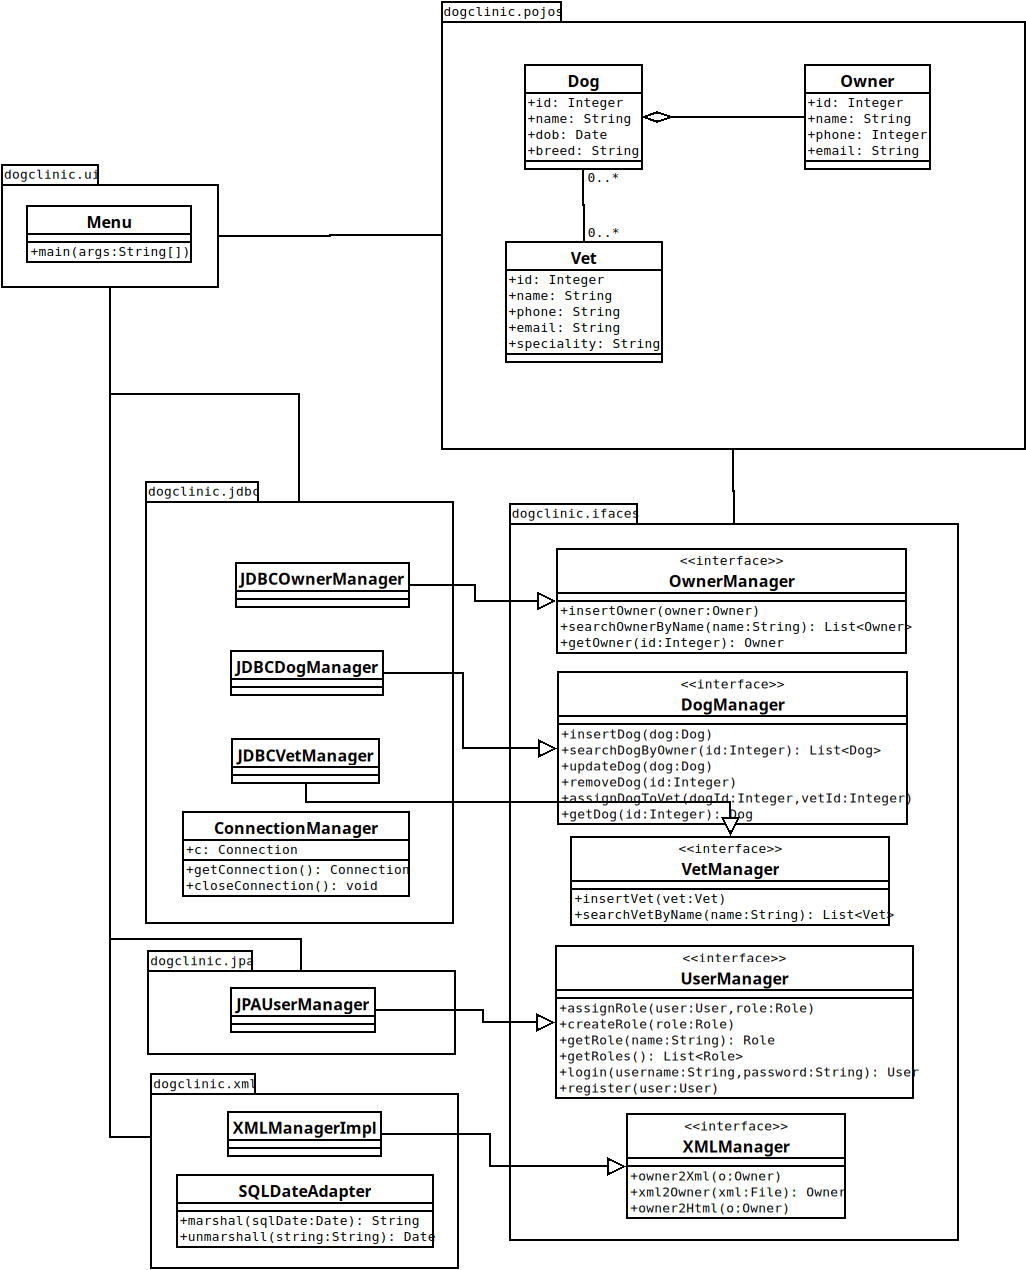
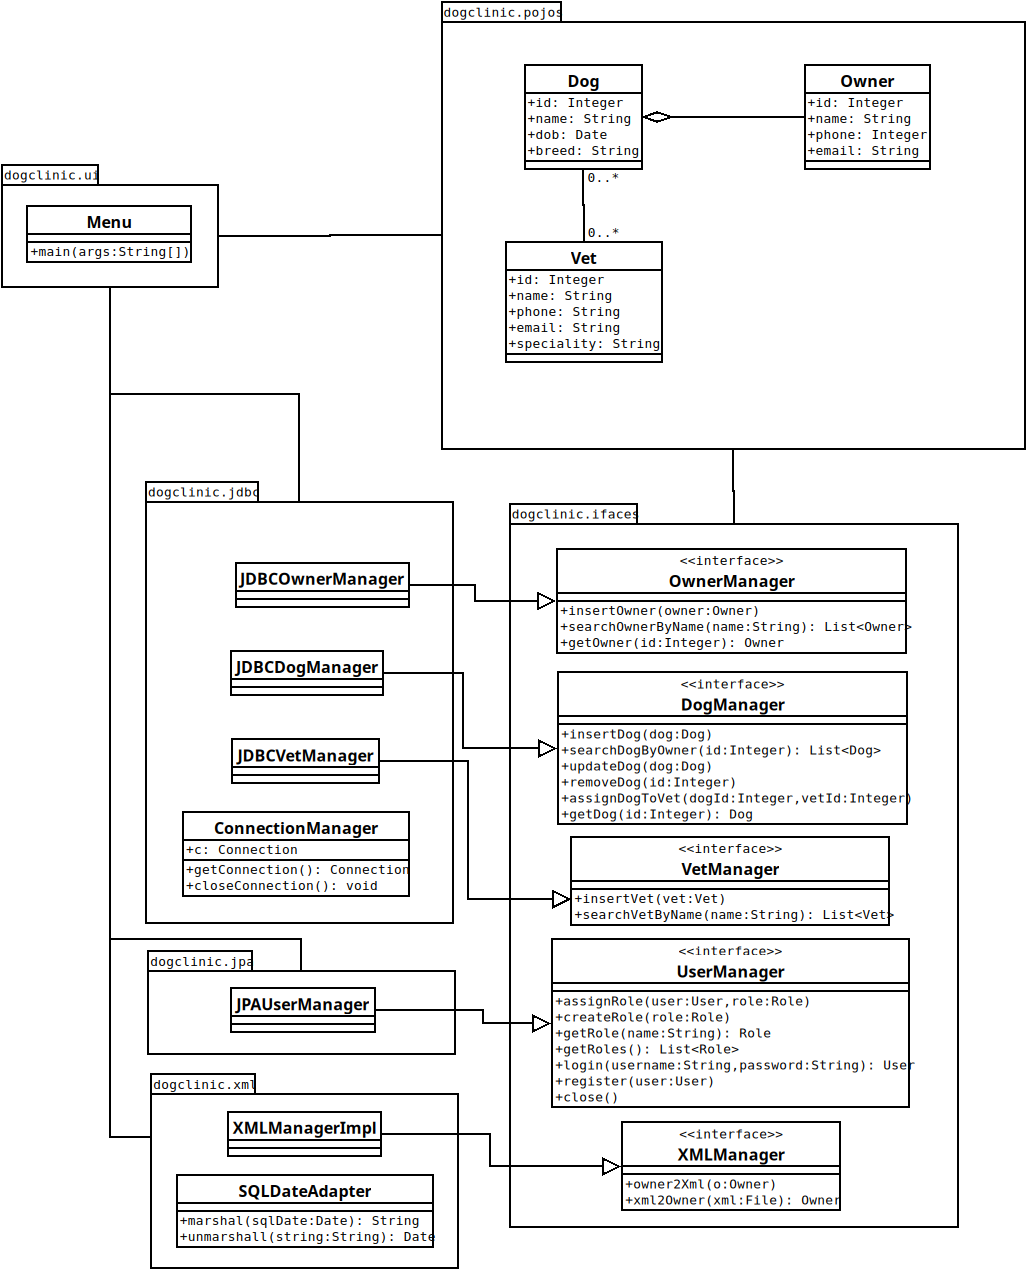
Several small fixes and updates.

diff --git a/DogClinic/src/dogclinic/ui/Menu.java b/DogClinic/src/dogclinic/ui/Menu.java
@@ -57,12 +57,13 @@ public class Menu {
 				}
 				case 0: {
 					conMan.closeConnection();
+					userMan.close();
 					return;
 				}
 				}
 
 			} catch (NumberFormatException e) {
-				System.out.println("You didn't type a number, idiot!");
+				System.out.println("You didn't type a number!");
 				e.printStackTrace();
 			} catch (IOException e) {
 				System.out.println("I/O Exception.");
@@ -70,30 +71,6 @@ public class Menu {
 			}
 		}
 
-	}
-
-	public static void login() throws IOException {
-		while (true) {
-			// Ask for the username and password
-			System.out.println("Username:");
-			String username = r.readLine();
-			System.out.println("Password:");
-			String password = r.readLine();
-			// If they match, go to the owner screen
-			User user = userMan.login(username, password);
-			if (user != null) {
-				if (user.getRole().getName().equals("owner")) {
-					ownerMenu(user.getEmail());
-				}
-				else if (user.getRole().getName().equals("vet")) {
-					selectVet();
-				}
-			}
-			// It not, ask again
-			else {
-				System.out.println("Wrong username/password combination.");
-			}
-		}
 	}
 
 	public static void registerOwner() throws IOException {
@@ -116,21 +93,6 @@ public class Menu {
 		userMan.assignRole(u, r);
 	}
 
-//	public static void selectOwner() throws IOException {
-//		System.out.println("Let's search by name:");
-//		String name = r.readLine();
-//		List<Owner> listOwn = ownerMan.searchOwnerByName(name);
-//		System.out.println(listOwn);
-//		System.out.println("Please choose an owner, type its Id:");
-//		Integer id = Integer.parseInt(r.readLine());
-//		// Go to the owner's menu
-//		ownerMenu(id);
-//	}
-	
-	public static void selectVet() throws IOException {
-		// TODO Make this later
-	}
-
 	public static void registerVet() throws IOException {
 		System.out.println("Please, input the vet's data:");
 		System.out.println("Name:");
@@ -143,6 +105,31 @@ public class Menu {
 		String speciality = r.readLine();
 		Vet v = new Vet(name, phone, email, speciality);
 		vetMan.insertVet(v);
+	}
+	
+
+	public static void login() throws IOException {
+		while (true) {
+			// Ask for the username and password
+			System.out.println("Username:");
+			String username = r.readLine();
+			System.out.println("Password:");
+			String password = r.readLine();
+			// If they match, go to the owner screen
+			User user = userMan.login(username, password);
+			if (user != null) {
+				if (user.getRole().getName().equals("owner")) {
+					ownerMenu(user.getEmail());
+				}
+				else if (user.getRole().getName().equals("vet")) {
+					vetMenu(user.getEmail());
+				}
+			}
+			// It not, ask again
+			else {
+				System.out.println("Wrong username/password combination.");
+			}
+		}
 	}
 
 	public static void ownerMenu(String email) {
@@ -178,7 +165,7 @@ public class Menu {
 				}
 
 			} catch (NumberFormatException e) {
-				System.out.println("You didn't type a number, idiot!");
+				System.out.println("You didn't type a number!");
 				e.printStackTrace();
 			} catch (IOException e) {
 				System.out.println("I/O Exception.");
@@ -203,6 +190,7 @@ public class Menu {
 		Owner o = ownerMan.getOwner(id);
 		Dog d = new Dog(name, dobDate, breed, o);
 		dogMan.insertDog(d);
+		System.out.println("The dog has been saved to the database.");
 	}
 
 	public static void checkDogs(int id) throws IOException {
@@ -211,17 +199,16 @@ public class Menu {
 		System.out.println(listDog);
 		System.out.println("Please choose a dog, type its Id:");
 		Integer dogId = Integer.parseInt(r.readLine());
-		// Go to the owner's menu
+		// Go to the dog's menu
 		dogMenu(dogId);
 	}
 	
 	public static void dogs2Xml(int id) throws IOException {
-		System.out.println("Your dogs in XML are:");
 		List<Dog> listDog = dogMan.searchDogByOwner(id);
 		Owner own = ownerMan.getOwner(id);
 		own.setDogs(listDog);
-		// TODO Turn the owner into an XML
 		xmlMan.owner2Xml(own);
+		System.out.println("Your dogs are in ./xmls/Dogs.xml");
 	}
 
 	public static void dogMenu(int id) {
@@ -271,8 +258,8 @@ public class Menu {
 		System.out.println(listVet);
 		System.out.println("Please choose a vet, type its Id:");
 		Integer vetId = Integer.parseInt(r.readLine());
-		// Go to the owner's menu
 		dogMan.assignDogToVet(dogId, vetId);
+		System.out.println("The dog has been assigned to the vet.");
 	}
 
 	public static void updateDog(int id) throws IOException {
@@ -296,11 +283,17 @@ public class Menu {
 			d.setBreed(breed);
 		}
 		dogMan.updateDog(d);
+		System.out.println("The changes to the dog have been saved.");
 	}
 
 	public static void removeDog(int id) throws IOException {
 		dogMan.removeDog(id);
 		System.out.println("The dog has been removed. :(");
 	}
+
+	public static void vetMenu(String email) throws IOException {
+		// TODO Complete vet's menu
+	}
+
 
 }

diff --git a/DogClinic/src/dogclinic/pojos/Dog.java b/DogClinic/src/dogclinic/pojos/Dog.java
@@ -17,9 +17,6 @@ import javax.xml.bind.annotation.adapters.XmlJavaTypeAdapter;
 
 import dogclinic.xml.SQLDateAdapter;
 
-// THIS COMMENT IS A TEST FOR GITHUB
-// CHANGE CHANGE CHANGE
-
 // POJO
 // Plain Old Java Object
 // MANDATORY
@@ -143,7 +140,7 @@ public class Dog implements Serializable {
 	}
 
 	@Override
-	public boolean equals(Object obj) { // toby.equals(thor)
+	public boolean equals(Object obj) {
 		if (this == obj) // Checks if both objects have the same memory reference (the same piece of paper)
 			return true;
 		if (obj == null) // If not, checks if the other object is null

diff --git a/DogClinic/src/dogclinic/xml/XMLManagerImpl.java b/DogClinic/src/dogclinic/xml/XMLManagerImpl.java
@@ -28,14 +28,8 @@ public class XMLManagerImpl implements XMLManager {
 
 	@Override
 	public Owner xml2Owner(File xml) {
-		// TODO Auto-generated method stub
+		// TODO Implement the unmarshaller
 		return null;
-	}
-
-	@Override
-	public void owner2Html(Owner o) {
-		// TODO Auto-generated method stub
-		
 	}
 
 }

diff --git a/DogClinic/src/dogclinic/ifaces/UserManager.java b/DogClinic/src/dogclinic/ifaces/UserManager.java
@@ -13,4 +13,5 @@ public interface UserManager {
 	public void assignRole(User user, Role role);
 	// If user doesn't exist return null
 	public User login(String name, String password);
+	public void close();
 }

diff --git a/DogClinic/src/dogclinic/ifaces/XMLManager.java b/DogClinic/src/dogclinic/ifaces/XMLManager.java
@@ -8,5 +8,4 @@ public interface XMLManager {
 
 	public void owner2Xml(Owner o);
 	public Owner xml2Owner(File xml);
-	public void owner2Html(Owner o);
 }
